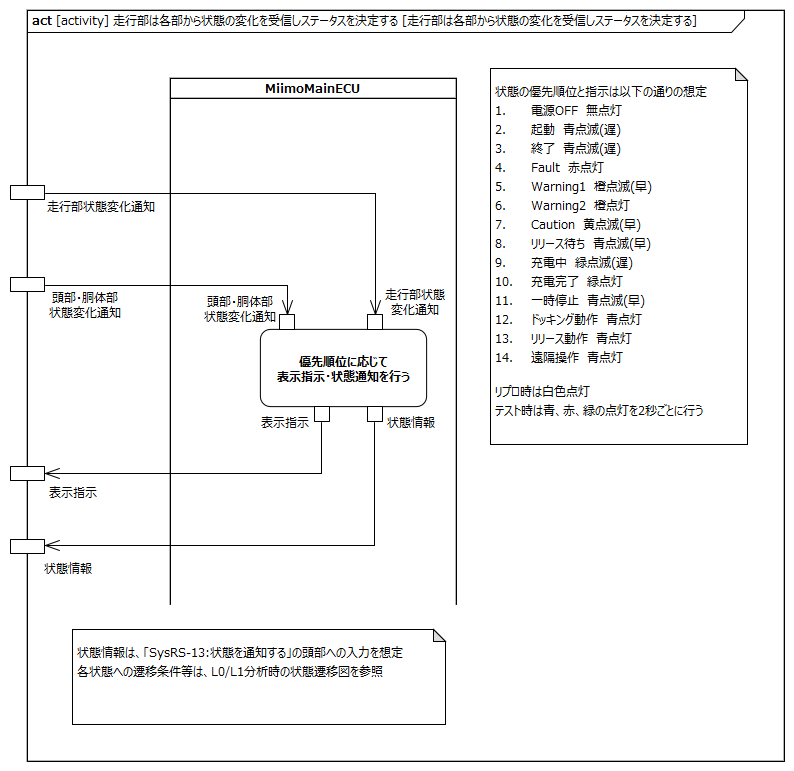
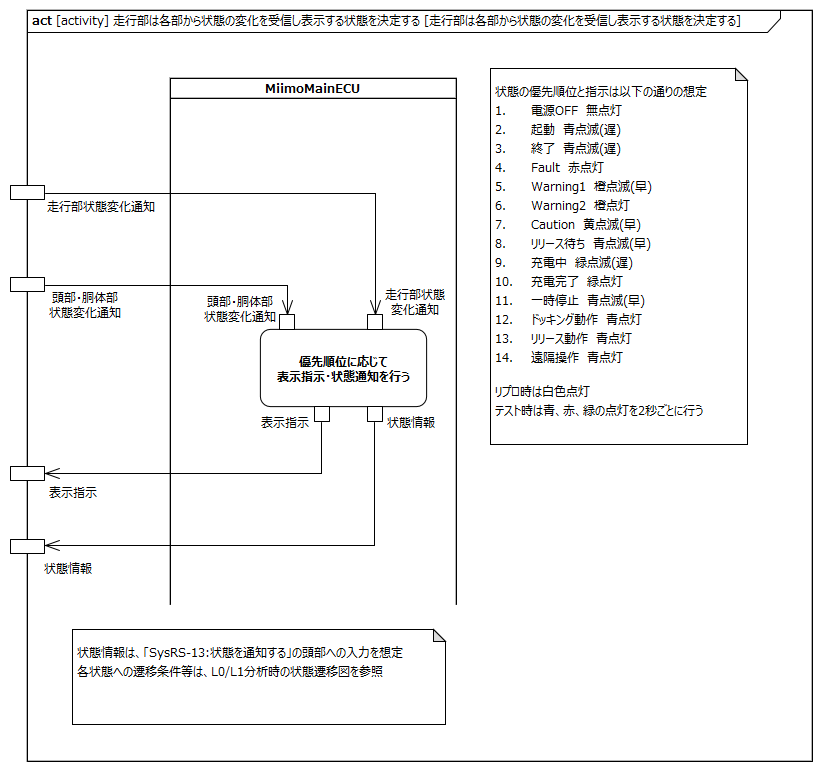
”状態を表示する”/”状態を通知する”のL2要求記述対応 ・表記ゆれ修正：ステータス→状態

diff --git a/requirements/requirement.md b/requirements/requirement.md
@@ -1011,7 +1011,7 @@ date: 2021年12月21日
 |REQ-002|テレプレゼンスロボットの電源をOFFする|UC-001, UC-004, UC-015||
 |REQ-003|テレプレゼンスロボットとアバタークラウドの接続設定を行う|UC-001||
 |REQ-004|テレプレゼンスロボットの各センサーの状態を通知する|UC-002||
-|REQ-005|テレプレゼンスロボットの各センサーの状態を表示する|UC-002|ステータスランプのイメージ|
+|REQ-005|テレプレゼンスロボットの各センサーの状態を表示する|UC-002|表示用LEDのイメージ|
 |REQ-006|テレプレゼンスロボットをスタンバイモード（停止保持状態）にする|UC-003||
 |REQ-007|テレプレゼンスロボットは自己診断を行う|UC-003, UC-015||
 |REQ-008|テレプレゼンスロボットはアバタークラウドに接続する|UC-003||
@@ -1079,7 +1079,7 @@ date: 2021年12月21日
 |SysRS-09|充電ステーションを検出する|ステーション信号により充電ステーションを検出し、充電ステーション近傍を通知する|・アバタークラウド</br>・充電ステーション|REQ-029|
 |SysRS-10|バッテリ残量低下を検知し停止する|テレプレゼンスロボットのバッテリ残量低下を検知し停止する|・アバタークラウド|REQ-020|
 |SysRS-11|異常を検知し停止する|テレプレゼンスロボット内部の異常を検知し停止する|・アバタークラウド|REQ-026|
-|SysRS-12|状態を表示する|テレプレゼンスロボットの状態を本体のステータスランプに表示する|・アバター設置者|REQ-005,<br/>REQ-023,<br/>REQ-025|
+|SysRS-12|状態を表示する|テレプレゼンスロボットの状態を本体の表示用LEDに表示する|・アバター設置者|REQ-005,<br/>REQ-023,<br/>REQ-025|
 |SysRS-13|状態を通知する|テレプレゼンスロボットの状態をアバタークラウドに通知する|・アバタークラウド|REQ-004,<br/>REQ-009,<br/>REQ-021,<br/>REQ-023,<br/>REQ-025,<br/>REQ-031,<br/>REQ-035|
 |SysRS-14|データを送信する|バッテリ残量などのデータをアバタークラウドに送信する|・アバタークラウド|REQ-019|
 |SysRS-15|シャットダウンする|テレプレゼンスロボットの使用を終了し電源を切る|・アバター設置者|REQ-002,<br/>REQ-007,<br/>REQ-032|
@@ -1258,7 +1258,7 @@ date: 2021年12月21日
 |頭部は起動処理の完了をアバタークラウドに通知する||
 |頭部は起動処理の結果を表示する||
 |胴体部は頭部による自己診断を受ける|アバターコアによる診断|
-|胴体部は起動処理の結果を走行部から受け表示する|ステータスLEDなど|
+|胴体部は起動処理の結果を走行部から受け表示する|表示用LEDなど|
 |走行部は胴体部の電源ON操作により起動し、起動処理を開始する||
 |走行部は頭部に電源を供給する||
 |走行部は自己診断を行う||
@@ -1657,9 +1657,9 @@ YES動作コマンドは首垂直動作に依存し、NO動作コマンドは首
 
 **ユースケース概要**
 
-テレプレゼンスロボットの状態を本体のステータスランプに表示する
+テレプレゼンスロボットの状態を本体の表示用LEDに表示する
 
-**2021年12月21日現在**想定されるステータスは、以下の通り
+**2021年12月21日現在**想定される状態は、以下の通り
 
 |状態|LED点灯パターン|
 |:---|:---|
@@ -1703,9 +1703,9 @@ YES動作コマンドは首垂直動作に依存し、NO動作コマンドは首
 |:---|:---|
 |頭部は状態の変化を検知したら走行部に状態情報を送信する||
 |胴体部は状態の変化を検知したら走行部に状態情報を送信する||
-|胴体部はステータスを表示する|LEDランプを想定|
+|胴体部は状態を表示する|LEDランプを想定|
 |走行部は状態の変化を検知したら走行部に状態情報を送信する||
-|走行部は各部から状態の変化を受信しステータスを決定する|・ステータスの分類についてはL2レベルで詳細化する<br/>・イベント（走行部に送られる状態の変化通知）は個別のフローを参照|
+|走行部は各部から状態の変化を受信し表示する状態を決定する|・表示する状態の分類については「テレプレゼンスロボット本体の状態の整理」章を参照<br/>・イベント（走行部に送られる状態の変化通知）は個別のフローを参照|
 
 
 <div style="page-break-before:always"></div>

diff --git a/requirements/display_status.md b/requirements/display_status.md
@@ -69,7 +69,7 @@ avatarin側の責務のため、対象外とする。
 
 <div style="page-break-before:always"></div>
 
-## 胴体部はステータスを表示する
+## 胴体部は状態を表示する
 
 ![](.images/activity/display_status/body-act02.png)
 
@@ -110,7 +110,7 @@ avatarin側の責務のため、対象外とする。
 
 <div style="page-break-before:always"></div>
 
-## 走行部は各部から状態の変化を受信しステータスを決定する
+## 走行部は各部から状態の変化を受信し表示する状態を決定する
 
 ![](.images/activity/display_status/act02.png)
 
